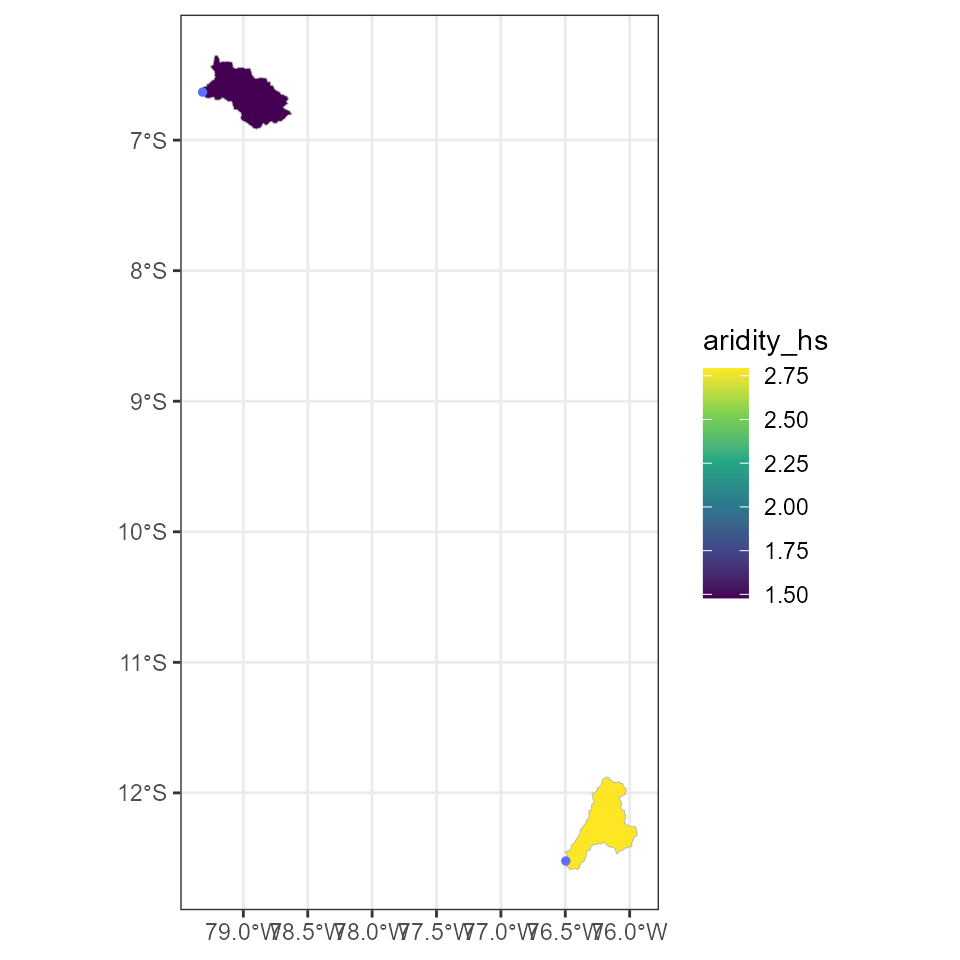
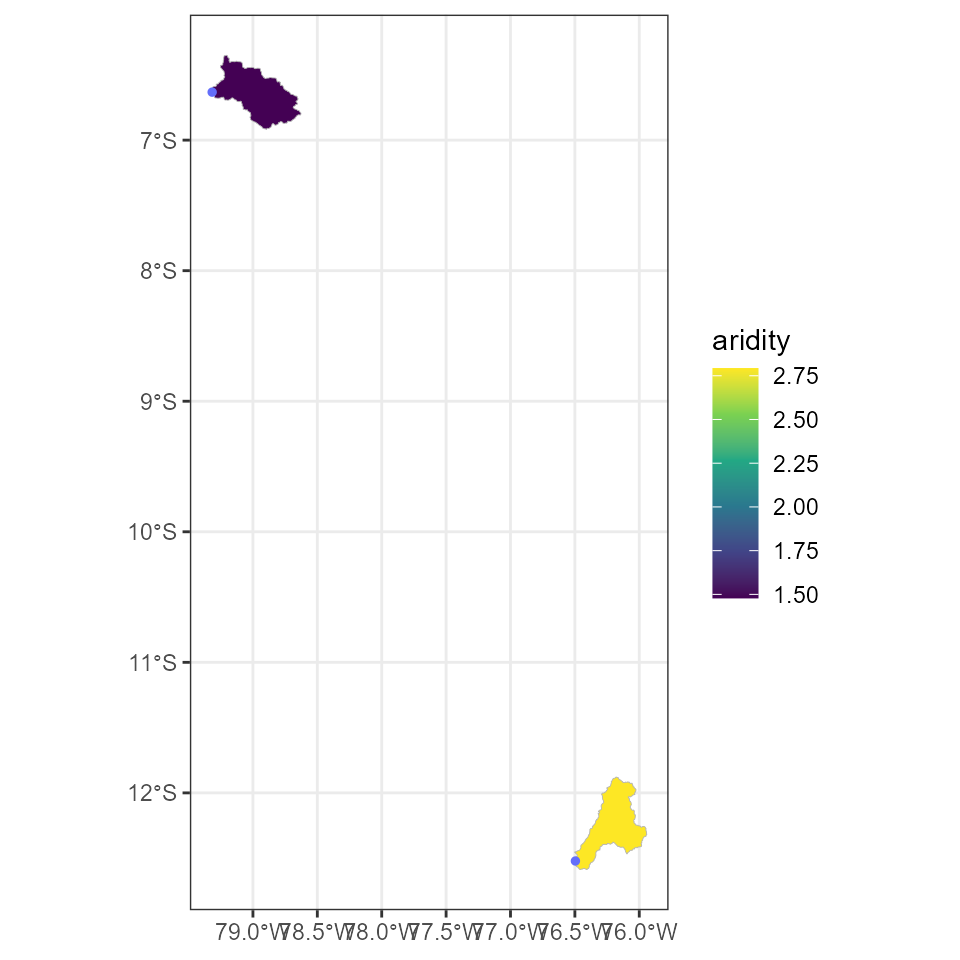
Climatic indices from reference products only (pet_mean, aridity); rebuild pkgdown site

diff --git a/docs/articles/rcamelspe.html b/docs/articles/rcamelspe.html
@@ -154,7 +154,7 @@ this path:</p>
 <div class="sourceCode" id="cb5"><pre class="downlit sourceCode r">
 <code class="sourceCode R"><span><span class="fu"><a href="../reference/set_camels_path.html">set_camels_path</a></span><span class="op">(</span><span class="va">camels_path</span><span class="op">)</span></span>
 <span><span class="fu"><a href="../reference/get_camels_path.html">get_camels_path</a></span><span class="op">(</span><span class="op">)</span></span>
-<span><span class="co">#&gt; [1] "C:/Users/hllauca/AppData/Local/Temp/RtmpSYJWMD/temp_libpath2dd4371a3455/RCamelsPE/extdata/sample_camels_pe"</span></span></code></pre></div>
+<span><span class="co">#&gt; [1] "C:/Users/hllauca/AppData/Local/Temp/claude/G--Mi-unidad-Papers-PAPER-CAMELS-PE/be42cc40-8784-431b-8684-59076803c6b3/scratchpad/rlib/RCamelsPE/extdata/sample_camels_pe"</span></span></code></pre></div>
 <p>The dataset is organized in four folders:</p>
 <pre class="text"><code>CAMELS-PE/
 ├── 01_metadata/      stations.csv, data_dictionary.csv
@@ -175,7 +175,7 @@ best starting point to find a variable.</p>
 <span><span class="fu"><a href="https://rdrr.io/r/base/table.html" class="external-link">table</a></span><span class="op">(</span><span class="va">dict</span><span class="op">$</span><span class="va">category</span><span class="op">)</span></span>
 <span><span class="co">#&gt; </span></span>
 <span><span class="co">#&gt;           climatic           geologic         geospatial human_intervention </span></span>
-<span><span class="co">#&gt;                 15                 24                  3                 17 </span></span>
+<span><span class="co">#&gt;                 11                 24                  3                 17 </span></span>
 <span><span class="co">#&gt;       hydrological         land_cover           metadata               soil </span></span>
 <span><span class="co">#&gt;                 35                 55                 18                 30 </span></span>
 <span><span class="co">#&gt;         timeseries        topographic </span></span>
@@ -205,18 +205,16 @@ best starting point to find a variable.</p>
 <div class="sourceCode" id="cb10"><pre class="downlit sourceCode r">
 <code class="sourceCode R"><span><span class="va">pet_vars</span> <span class="op">&lt;-</span> <span class="va">dict</span><span class="op">[</span><span class="fu"><a href="https://rdrr.io/r/base/grep.html" class="external-link">grepl</a></span><span class="op">(</span><span class="st">"evapotranspiration"</span>, <span class="va">dict</span><span class="op">$</span><span class="va">description</span><span class="op">)</span>, <span class="op">]</span></span>
 <span><span class="fu"><a href="https://rdrr.io/r/base/unique.html" class="external-link">unique</a></span><span class="op">(</span><span class="va">pet_vars</span><span class="op">[</span>, <span class="fu"><a href="https://rdrr.io/r/base/c.html" class="external-link">c</a></span><span class="op">(</span><span class="st">"file"</span>, <span class="st">"variable"</span><span class="op">)</span><span class="op">]</span><span class="op">)</span></span>
-<span><span class="co">#&gt; <span style="color: #949494;"># A tibble: 9 × 2</span></span></span>
-<span><span class="co">#&gt;   file                      variable   </span></span>
-<span><span class="co">#&gt;   <span style="color: #949494; font-style: italic;">&lt;chr&gt;</span>                     <span style="color: #949494; font-style: italic;">&lt;chr&gt;</span>      </span></span>
-<span><span class="co">#&gt; <span style="color: #BCBCBC;">1</span> climatic_indices.csv      pet_mean_hs</span></span>
-<span><span class="co">#&gt; <span style="color: #BCBCBC;">2</span> climatic_indices.csv      pet_mean_pt</span></span>
-<span><span class="co">#&gt; <span style="color: #BCBCBC;">3</span> climatic_indices.csv      pet_mean_ou</span></span>
-<span><span class="co">#&gt; <span style="color: #BCBCBC;">4</span> timeseries.csv            pet_hs     </span></span>
-<span><span class="co">#&gt; <span style="color: #BCBCBC;">5</span> timeseries.csv            pet_pt     </span></span>
-<span><span class="co">#&gt; <span style="color: #BCBCBC;">6</span> timeseries.csv            pet_ou     </span></span>
-<span><span class="co">#&gt; <span style="color: #BCBCBC;">7</span> by_catchment/PE_xxxxx.csv pet_hs     </span></span>
-<span><span class="co">#&gt; <span style="color: #BCBCBC;">8</span> by_catchment/PE_xxxxx.csv pet_pt     </span></span>
-<span><span class="co">#&gt; <span style="color: #BCBCBC;">9</span> by_catchment/PE_xxxxx.csv pet_ou</span></span></code></pre></div>
+<span><span class="co">#&gt; <span style="color: #949494;"># A tibble: 7 × 2</span></span></span>
+<span><span class="co">#&gt;   file                      variable</span></span>
+<span><span class="co">#&gt;   <span style="color: #949494; font-style: italic;">&lt;chr&gt;</span>                     <span style="color: #949494; font-style: italic;">&lt;chr&gt;</span>   </span></span>
+<span><span class="co">#&gt; <span style="color: #BCBCBC;">1</span> climatic_indices.csv      pet_mean</span></span>
+<span><span class="co">#&gt; <span style="color: #BCBCBC;">2</span> timeseries.csv            pet_hs  </span></span>
+<span><span class="co">#&gt; <span style="color: #BCBCBC;">3</span> timeseries.csv            pet_pt  </span></span>
+<span><span class="co">#&gt; <span style="color: #BCBCBC;">4</span> timeseries.csv            pet_ou  </span></span>
+<span><span class="co">#&gt; <span style="color: #BCBCBC;">5</span> by_catchment/PE_xxxxx.csv pet_hs  </span></span>
+<span><span class="co">#&gt; <span style="color: #BCBCBC;">6</span> by_catchment/PE_xxxxx.csv pet_pt  </span></span>
+<span><span class="co">#&gt; <span style="color: #BCBCBC;">7</span> by_catchment/PE_xxxxx.csv pet_ou</span></span></code></pre></div>
 <hr>
 </div>
 <div class="section level2">
@@ -319,7 +317,7 @@ attribute (Sect. 5):</p>
 <span><span class="fu"><a href="../reference/plot_attribute_map.html">plot_attribute_map</a></span><span class="op">(</span></span>
 <span>  catchments <span class="op">=</span> <span class="va">catchments</span>,</span>
 <span>  attributes <span class="op">=</span> <span class="va">clim</span>,</span>
-<span>  variable <span class="op">=</span> <span class="st">"aridity_hs"</span>,</span>
+<span>  variable <span class="op">=</span> <span class="st">"aridity"</span>,</span>
 <span>  gauges <span class="op">=</span> <span class="va">gauges</span></span>
 <span><span class="op">)</span></span></code></pre></div>
 <p><img src="rcamelspe_files/figure-html/unnamed-chunk-19-1.png" class="r-plt" alt="" width="60%"></p>
@@ -349,19 +347,16 @@ mean slope in m/km.</p>
 <h3 id="climate">Climate<a class="anchor" aria-label="anchor" href="#climate"></a>
 </h3>
 <p>Climatic indices are computed from 1981 to 2025 with the reference
-products (PISCOp precipitation and Hargreaves-Samani PET). Mean PET and
-the aridity index are also given for the Priestley-Taylor
-(<code>_pt</code>) and Oudin (<code>_ou</code>) formulations, to show
-the uncertainty related to the choice of PET:</p>
+products only (PISCOp precipitation and Hargreaves-Samani PET). The
+alternative precipitation and PET products are provided as time
+series:</p>
 <div class="sourceCode" id="cb22"><pre class="downlit sourceCode r">
-<code class="sourceCode R"><span><span class="va">clim</span><span class="op">[</span>, <span class="fu"><a href="https://rdrr.io/r/base/c.html" class="external-link">c</a></span><span class="op">(</span><span class="st">"gauge_id"</span>, <span class="st">"p_mean"</span>, <span class="st">"pet_mean_hs"</span>, <span class="st">"pet_mean_pt"</span>,</span>
-<span>         <span class="st">"pet_mean_ou"</span>, <span class="st">"aridity_hs"</span>, <span class="st">"aridity_pt"</span>, <span class="st">"aridity_ou"</span><span class="op">)</span><span class="op">]</span></span>
-<span><span class="co">#&gt; <span style="color: #949494;"># A tibble: 2 × 8</span></span></span>
-<span><span class="co">#&gt;   gauge_id  p_mean pet_mean_hs pet_mean_pt pet_mean_ou aridity_hs aridity_pt</span></span>
-<span><span class="co">#&gt;   <span style="color: #949494; font-style: italic;">&lt;chr&gt;</span>      <span style="color: #949494; font-style: italic;">&lt;dbl&gt;</span>       <span style="color: #949494; font-style: italic;">&lt;dbl&gt;</span>       <span style="color: #949494; font-style: italic;">&lt;dbl&gt;</span>       <span style="color: #949494; font-style: italic;">&lt;dbl&gt;</span>      <span style="color: #949494; font-style: italic;">&lt;dbl&gt;</span>      <span style="color: #949494; font-style: italic;">&lt;dbl&gt;</span></span></span>
-<span><span class="co">#&gt; <span style="color: #BCBCBC;">1</span> PE_212900   1.24        3.47        4.22        2.52       2.79       3.39</span></span>
-<span><span class="co">#&gt; <span style="color: #BCBCBC;">2</span> PE_200907   2.44        3.60        4.03        3.13       1.48       1.65</span></span>
-<span><span class="co">#&gt; <span style="color: #949494;"># ℹ 1 more variable: aridity_ou &lt;dbl&gt;</span></span></span></code></pre></div>
+<code class="sourceCode R"><span><span class="va">clim</span><span class="op">[</span>, <span class="fu"><a href="https://rdrr.io/r/base/c.html" class="external-link">c</a></span><span class="op">(</span><span class="st">"gauge_id"</span>, <span class="st">"p_mean"</span>, <span class="st">"pet_mean"</span>, <span class="st">"aridity"</span><span class="op">)</span><span class="op">]</span></span>
+<span><span class="co">#&gt; <span style="color: #949494;"># A tibble: 2 × 4</span></span></span>
+<span><span class="co">#&gt;   gauge_id  p_mean pet_mean aridity</span></span>
+<span><span class="co">#&gt;   <span style="color: #949494; font-style: italic;">&lt;chr&gt;</span>      <span style="color: #949494; font-style: italic;">&lt;dbl&gt;</span>    <span style="color: #949494; font-style: italic;">&lt;dbl&gt;</span>   <span style="color: #949494; font-style: italic;">&lt;dbl&gt;</span></span></span>
+<span><span class="co">#&gt; <span style="color: #BCBCBC;">1</span> PE_212900   1.24     3.47    2.79</span></span>
+<span><span class="co">#&gt; <span style="color: #BCBCBC;">2</span> PE_200907   2.44     3.60    1.48</span></span></code></pre></div>
 <p>Seasonality and the frequency, duration and timing of
 high-precipitation and dry days:</p>
 <div class="sourceCode" id="cb23"><pre class="downlit sourceCode r">
@@ -541,17 +536,17 @@ with the observed ones):</p>
 <div class="sourceCode" id="cb33"><pre class="downlit sourceCode r">
 <code class="sourceCode R"><span><span class="va">attrs</span> <span class="op">&lt;-</span> <span class="fu"><a href="../reference/read_attributes.html">read_attributes</a></span><span class="op">(</span><span class="st">"all"</span><span class="op">)</span></span>
 <span><span class="fu"><a href="https://rdrr.io/r/base/dim.html" class="external-link">dim</a></span><span class="op">(</span><span class="va">attrs</span><span class="op">)</span></span>
-<span><span class="co">#&gt; [1]   2 107</span></span></code></pre></div>
+<span><span class="co">#&gt; [1]   2 103</span></span></code></pre></div>
 <p>This table is convenient for catchment classification or
 regionalization, for example to relate the runoff ratio to aridity:</p>
 <div class="sourceCode" id="cb34"><pre class="downlit sourceCode r">
-<code class="sourceCode R"><span><span class="va">attrs</span><span class="op">[</span>, <span class="fu"><a href="https://rdrr.io/r/base/c.html" class="external-link">c</a></span><span class="op">(</span><span class="st">"gauge_id"</span>, <span class="st">"aridity_hs"</span>, <span class="st">"runoff_ratio"</span>, <span class="st">"baseflow_index"</span>,</span>
+<code class="sourceCode R"><span><span class="va">attrs</span><span class="op">[</span>, <span class="fu"><a href="https://rdrr.io/r/base/c.html" class="external-link">c</a></span><span class="op">(</span><span class="st">"gauge_id"</span>, <span class="st">"aridity"</span>, <span class="st">"runoff_ratio"</span>, <span class="st">"baseflow_index"</span>,</span>
 <span>          <span class="st">"forest_perc"</span>, <span class="st">"near_natural"</span><span class="op">)</span><span class="op">]</span></span>
 <span><span class="co">#&gt; <span style="color: #949494;"># A tibble: 2 × 6</span></span></span>
-<span><span class="co">#&gt;   gauge_id  aridity_hs runoff_ratio baseflow_index forest_perc near_natural</span></span>
-<span><span class="co">#&gt;   <span style="color: #949494; font-style: italic;">&lt;chr&gt;</span>          <span style="color: #949494; font-style: italic;">&lt;dbl&gt;</span>        <span style="color: #949494; font-style: italic;">&lt;dbl&gt;</span>          <span style="color: #949494; font-style: italic;">&lt;dbl&gt;</span>       <span style="color: #949494; font-style: italic;">&lt;dbl&gt;</span>        <span style="color: #949494; font-style: italic;">&lt;dbl&gt;</span></span></span>
-<span><span class="co">#&gt; <span style="color: #BCBCBC;">1</span> PE_212900       2.79        0.54           0.573        5.05            0</span></span>
-<span><span class="co">#&gt; <span style="color: #BCBCBC;">2</span> PE_200907       1.48        0.538          0.631       22.5             0</span></span></code></pre></div>
+<span><span class="co">#&gt;   gauge_id  aridity runoff_ratio baseflow_index forest_perc near_natural</span></span>
+<span><span class="co">#&gt;   <span style="color: #949494; font-style: italic;">&lt;chr&gt;</span>       <span style="color: #949494; font-style: italic;">&lt;dbl&gt;</span>        <span style="color: #949494; font-style: italic;">&lt;dbl&gt;</span>          <span style="color: #949494; font-style: italic;">&lt;dbl&gt;</span>       <span style="color: #949494; font-style: italic;">&lt;dbl&gt;</span>        <span style="color: #949494; font-style: italic;">&lt;dbl&gt;</span></span></span>
+<span><span class="co">#&gt; <span style="color: #BCBCBC;">1</span> PE_212900    2.79        0.54           0.573        5.05            0</span></span>
+<span><span class="co">#&gt; <span style="color: #BCBCBC;">2</span> PE_200907    1.48        0.538          0.631       22.5             0</span></span></code></pre></div>
 <hr>
 </div>
 </div>
@@ -1022,12 +1017,12 @@ streamflow:</p>
 <span>  row.names <span class="op">=</span> <span class="cn">NULL</span></span>
 <span><span class="op">)</span></span>
 <span><span class="va">balance</span><span class="op">$</span><span class="va">runoff_ratio</span> <span class="op">&lt;-</span> <span class="va">balance</span><span class="op">$</span><span class="va">Q</span> <span class="op">/</span> <span class="va">balance</span><span class="op">$</span><span class="va">P</span></span>
-<span><span class="va">balance</span><span class="op">$</span><span class="va">aridity_hs</span> <span class="op">&lt;-</span> <span class="fu"><a href="https://rdrr.io/r/base/mean.html" class="external-link">mean</a></span><span class="op">(</span><span class="va">ts</span><span class="op">$</span><span class="va">pet_hs</span><span class="op">[</span><span class="va">ok</span><span class="op">]</span><span class="op">)</span> <span class="op">/</span> <span class="va">balance</span><span class="op">$</span><span class="va">P</span></span>
+<span><span class="va">balance</span><span class="op">$</span><span class="va">aridity</span> <span class="op">&lt;-</span> <span class="fu"><a href="https://rdrr.io/r/base/mean.html" class="external-link">mean</a></span><span class="op">(</span><span class="va">ts</span><span class="op">$</span><span class="va">pet_hs</span><span class="op">[</span><span class="va">ok</span><span class="op">]</span><span class="op">)</span> <span class="op">/</span> <span class="va">balance</span><span class="op">$</span><span class="va">P</span></span>
 <span><span class="va">balance</span></span>
-<span><span class="co">#&gt;         product        P         Q runoff_ratio aridity_hs</span></span>
-<span><span class="co">#&gt; 1    prec_pisco 1.375481 0.5634122    0.4096111  2.4793629</span></span>
-<span><span class="co">#&gt; 2   prec_chirps 1.238451 0.5634122    0.4549332  2.7536957</span></span>
-<span><span class="co">#&gt; 3 prec_era5land 3.667580 0.5634122    0.1536196  0.9298546</span></span></code></pre></div>
+<span><span class="co">#&gt;         product        P         Q runoff_ratio   aridity</span></span>
+<span><span class="co">#&gt; 1    prec_pisco 1.375481 0.5634122    0.4096111 2.4793629</span></span>
+<span><span class="co">#&gt; 2   prec_chirps 1.238451 0.5634122    0.4549332 2.7536957</span></span>
+<span><span class="co">#&gt; 3 prec_era5land 3.667580 0.5634122    0.1536196 0.9298546</span></span></code></pre></div>
 <p>A runoff ratio close to or above 1 points to an underestimation of
 precipitation by the product, a common issue in high mountain
 catchments.</p>

diff --git a/docs/news/index.html b/docs/news/index.html
@@ -85,7 +85,7 @@
 <code><a href="../reference/download_camels_pe.html">download_camels_pe()</a></code> fails gracefully: if Zenodo cannot be reached, it reports the problem with a message and returns <code>NULL</code> instead of an error.</li>
 <li>
 <code>utils</code> added to <code>Imports</code> (used through <code><a href="https://rdrr.io/r/utils/download.file.html" class="external-link">utils::download.file()</a></code>, <code><a href="https://rdrr.io/r/utils/unzip.html" class="external-link">utils::unzip()</a></code> and <code><a href="https://rdrr.io/r/utils/globalVariables.html" class="external-link">utils::globalVariables()</a></code>).</li>
-<li>Documentation updated to the new CAMELS-PE variable names (e.g. <code>prec_pisco</code>, <code>prec_sd_pisco</code>, <code>pet_hs</code>, <code>flow_obs_flag</code>, <code>flow_sim_m3s</code>).</li>
+<li>Documentation updated to the new CAMELS-PE variable names (e.g. <code>prec_pisco</code>, <code>prec_sd_pisco</code>, <code>pet_hs</code>, <code>flow_obs_flag</code>, <code>flow_sim_m3s</code>). The climatic indices are computed from the reference products only (<code>pet_mean</code> and <code>aridity</code>, Hargreaves-Samani PET), as in other CAMELS datasets; the alternative PET formulations are available as time series (<code>pet_pt</code>, <code>pet_ou</code>).</li>
 <li>
 <code><a href="../reference/read_timeseries.html">read_timeseries()</a></code> reads columns with fixed types, so the quality-control columns (<code>flow_obs_flag</code>, <code>flow_obs_qc_test</code>) are always read correctly, and only reads the columns requested in <code>vars</code>.</li>
 </ul></div>

diff --git a/NEWS.md b/NEWS.md
@@ -32,6 +32,10 @@
   `utils::unzip()` and `utils::globalVariables()`).
 * Documentation updated to the new CAMELS-PE variable names (e.g.
   `prec_pisco`, `prec_sd_pisco`, `pet_hs`, `flow_obs_flag`, `flow_sim_m3s`).
+  The climatic indices are computed from the reference products only
+  (`pet_mean` and `aridity`, Hargreaves-Samani PET), as in other CAMELS
+  datasets; the alternative PET formulations are available as time series
+  (`pet_pt`, `pet_ou`).
 * `read_timeseries()` reads columns with fixed types, so the quality-control
   columns (`flow_obs_flag`, `flow_obs_qc_test`) are always read correctly,
   and only reads the columns requested in `vars`.
